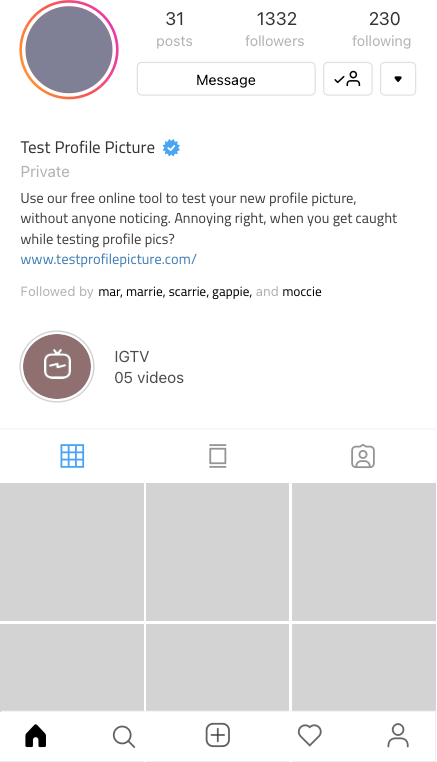
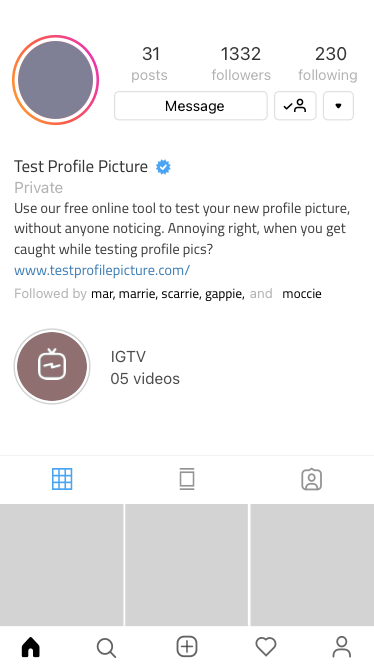
Pushing to repo

diff --git a/src/components/InstagramDesign.js b/src/components/InstagramDesign.js
@@ -1,7 +1,7 @@
 import React from "react";
 import { TransitionGroup, CSSTransition } from "react-transition-group";
 import insta1 from "../assets/img/instagram-1.png";
-import insta2 from "../assets/img/instagram-2.png";
+import insta2 from "../assets/img/instagram-2.svg";
 import insta3 from "../assets/img/instagram-3.png";
 import insta4 from "../assets/img/instagram-4.png";
 import insta5 from "../assets/img/instagram-5.png";
@@ -11,9 +11,9 @@ const InstagramDesign = ({ finalCroppedImage }) => {
     <TransitionGroup>
       <div className="p-0  position-relative">
         <div className="row">
-          <div className="col-lg-6 col-md-12 d-lg-block d-md-flex flex-md-column justify-content-md-center align-items-md-center instagram-design">
+          <div className="col-lg-6 col-md-12 d-lg-block d-flex flex-column justify-content-center align-items-center pb-4 instagram-design">
             <div className="position-relative m-0  align-items-center">
-              <img src={insta1} alt="" />
+              <img src={insta1} alt="" className="image" />
               {finalCroppedImage != null && finalCroppedImage !== "" && (
                 <CSSTransition
                   in={finalCroppedImage != null && finalCroppedImage !== ""}
@@ -32,7 +32,7 @@ const InstagramDesign = ({ finalCroppedImage }) => {
               className="position-relative "
               style={{ width: "max-content" }}
             >
-              <img src={insta5} alt="" />
+              <img src={insta5} alt="" className="image" />
               {finalCroppedImage != null && finalCroppedImage !== "" && (
                 <>
                   <CSSTransition
@@ -63,10 +63,14 @@ const InstagramDesign = ({ finalCroppedImage }) => {
           </div>
           <div className="col-lg-6 col-md-12 instagram_design align-items-xl-end align-items-center instagram-design">
             <div
-              className="p-4 position-relative"
+              className="py-4 position-relative"
               style={{ width: "max-content" }}
             >
-              <img src={insta2} alt="" className="instagram_design-base1" />
+              <img
+                src={insta2}
+                alt=""
+                className="instagram_design-base1 image"
+              />
               {finalCroppedImage != null && finalCroppedImage !== "" && (
                 <CSSTransition
                   in={finalCroppedImage != null && finalCroppedImage !== ""}
@@ -82,10 +86,14 @@ const InstagramDesign = ({ finalCroppedImage }) => {
               )}
             </div>
             <div
-              className="p-4 position-relative"
+              className="py-4 position-relative"
               style={{ width: "max-content" }}
             >
-              <img src={insta3} alt="" className="instagram_design-base2" />
+              <img
+                src={insta3}
+                alt=""
+                className="instagram_design-base2 image"
+              />
               {finalCroppedImage != null && finalCroppedImage !== "" && (
                 <CSSTransition
                   in={finalCroppedImage != null && finalCroppedImage !== ""}
@@ -101,10 +109,14 @@ const InstagramDesign = ({ finalCroppedImage }) => {
               )}
             </div>
             <div
-              className="p-2 position-relative"
+              className="py-2 position-relative"
               style={{ width: "max-content" }}
             >
-              <img src={insta4} alt="" className="instagram_design-base3" />
+              <img
+                src={insta4}
+                alt=""
+                className="instagram_design-base3 image"
+              />
               {finalCroppedImage != null && finalCroppedImage !== "" && (
                 <CSSTransition
                   in={finalCroppedImage != null && finalCroppedImage !== ""}

diff --git a/src/assets/css/main.css b/src/assets/css/main.css
@@ -5,6 +5,19 @@ body {
   overflow-x: hidden;
   scroll-behavior: smooth;
   background-color: #ffffff;
+  background: transparent;
+}
+
+img {
+  image-rendering: -moz-crisp-edges; /* Firefox */
+  image-rendering: -o-crisp-edges; /* Opera */
+  image-rendering: -webkit-optimize-contrast; /* Webkit (non-standard naming) */
+  image-rendering: crisp-edges;
+  -ms-interpolation-mode: nearest-neighbor; /* IE (non-standard property) */
+  -webkit-backface-visibility: hidden;
+  -ms-transform: translateZ(0); /* IE 9 */
+  -webkit-transform: translateZ(0); /* Chrome, Safari, Opera */
+  transform: translateZ(0);
 }
 .banner_img {
   width: 80%;
@@ -239,18 +252,23 @@ ul {
 .facebook_design {
   display: flex;
   flex-direction: column;
+  transform: translateZ(0);
 }
 
-.instagram_design-base1 {
-  width: 250px;
-}
+@media only screen and (min-width: 1200px) {
+  .instagram_design-base1 {
+    width: 250px;
+    transform: translateZ(0);
+  }
 
-.instagram_design-base2 {
-  width: 280px;
-}
+  .instagram_design-base2 {
+    width: 300px;
+    transform: translateZ(0);
+  }
 
-.instagram_design-base3 {
-  width: 250px;
+  .instagram_design-base3 {
+    width: 250px;
+  }
 }
 
 .facebook_design-base2 {
@@ -458,10 +476,55 @@ ul {
     width: 100%;
   }
 
+  .image {
+    width: 350px;
+  }
+
   .instagram-design,
   .facebook-design,
   .whatsapp-design,
   .tiktok-design {
     overflow: auto;
+  }
+
+  .instagram_design-profile1 {
+    top: 3px;
+    left: 13px;
+    width: 45px;
+    height: 45px;
+  }
+
+  .instagram_design-profile2 {
+    top: 16px;
+    left: 3px;
+    width: 32px;
+    height: 32px;
+  }
+
+  .instagram_design-profile3 {
+    top: 16px;
+    right: 49px;
+    width: 32px;
+    height: 32px;
+  }
+
+  .instagram_design-profile4 {
+    top: 24px;
+    left: 24px;
+    width: 32px;
+    height: 32px;
+  }
+
+  .instagram_design-profile5 {
+    top: 26px;
+    width: 25px;
+    height: 25px;
+  }
+
+  .instagram_design-profile6 {
+    top: 34px;
+    left: 56px;
+    width: 130px;
+    height: 130px;
   }
 }
